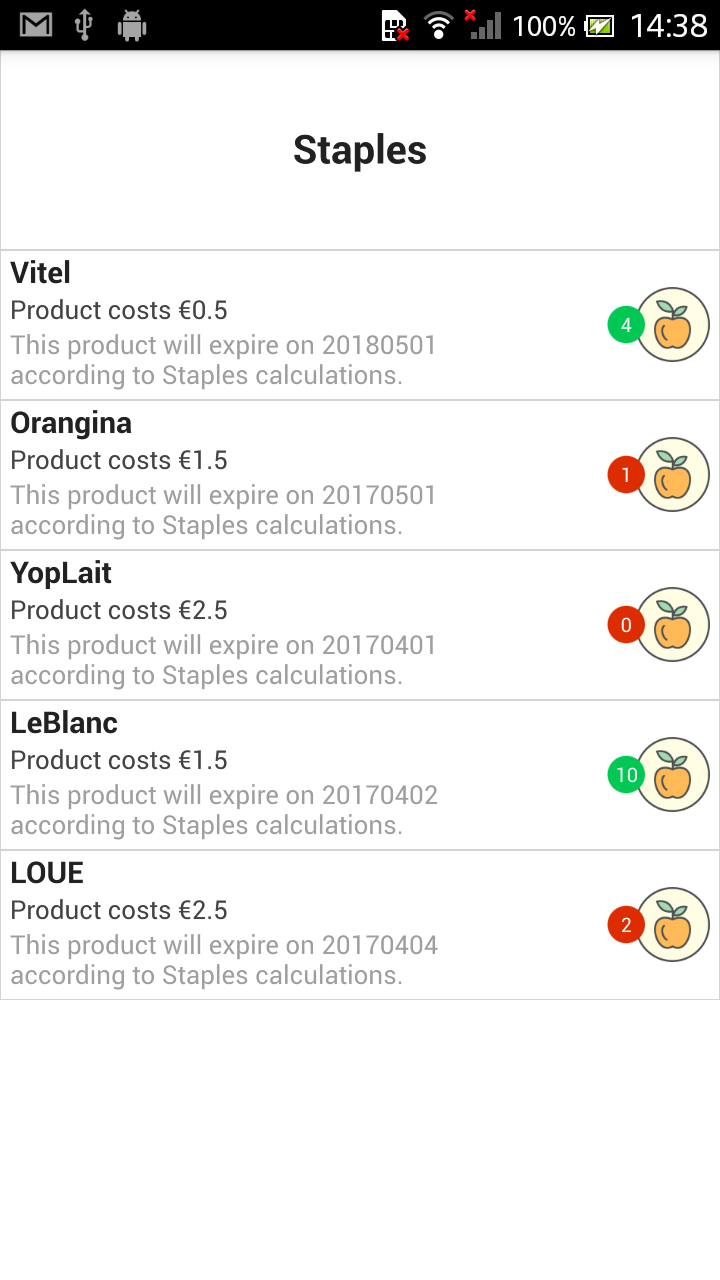
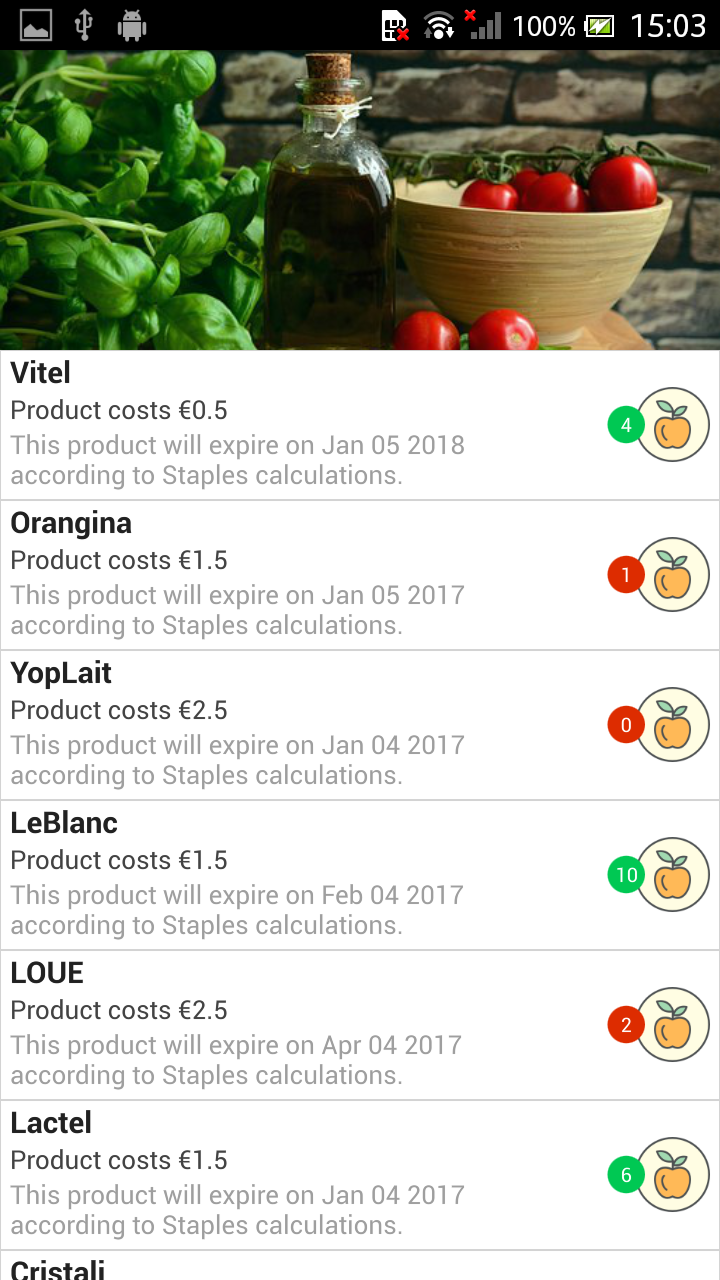
Improved design

diff --git a/qml/main.qml b/qml/main.qml
@@ -2,6 +2,7 @@ import QtQuick.Controls 2.0
 import QtQuick.Layouts 1.0
 import QtQuick 2.7
 import QtQuick.Window 2.0
+import QtQuick.Controls.Material 2.0
 
 ApplicationWindow {
     id: window
@@ -13,20 +14,30 @@ ApplicationWindow {
     Rectangle {
         id : header
         width: parent.width
-        height: 200
-        border.width: 1
-        border.color: "lightgrey"
+        height: 300
+        // border.width: 1
+        // border.color: "lightgrey"
+        Material.elevation: 2
 
+        Image {
+            id: staplesImage
+            source: "qrc:/olive-oil.jpg"
+            anchors.fill: parent
+            fillMode: Image.PreserveAspectCrop
+        }
+
+        /*
         Text {
             horizontalAlignment: Text.AlignHCenter
             verticalAlignment: Text.AlignVCenter
             anchors.fill: parent
             text: "Staples"
             font.bold: true
-            font.pointSize: 20
+            font.pointSize: 25
             elide: Text.ElideMiddle
             color: "#212121"
         }
+        */
     }
 
     Rectangle {

diff --git a/src/StaplesModel.cpp b/src/StaplesModel.cpp
@@ -13,7 +13,7 @@ StaplesModel* StaplesModel::getInstance()
     return _pInstance;
 }
 
-void StaplesModel::addStaple(unsigned int expirationDate, std::string name, float price, unsigned int quantity)
+void StaplesModel::addStaple(std::string expirationDate, std::string name, float price, unsigned int quantity)
 {
     beginInsertRows(QModelIndex(), rowCount(), rowCount());
     _staplesContainer.push_back(Staple(expirationDate, name, price, quantity));
@@ -62,7 +62,7 @@ QVariant StaplesModel::data(const QModelIndex &index, int role) const
     }
 
     if (role == NameRole)           { return QString::fromStdString(staple.name()); }
-    if (role == ExpirationDateRole) { return staple.numberOfDaysBeforeExpiration(); }
+    if (role == ExpirationDateRole) { return QString::fromStdString(staple.numberOfDaysBeforeExpiration()); }
     if (role == PriceRole)          { return staple.price(); }
     if (role == QuantityRole)       { return staple.quantity(); }
 

diff --git a/inc/Staple.h b/inc/Staple.h
@@ -19,16 +19,16 @@ class Staple
 public:
             Staple();
    virtual ~Staple();
-            Staple(unsigned int _daysBeforeExpiration, std::string _stapleName, float _staplePrice, unsigned int _stapleQuantity);
+            Staple(std::string _daysBeforeExpiration, std::string _stapleName, float _staplePrice, unsigned int _stapleQuantity);
 
-   unsigned int numberOfDaysBeforeExpiration() const;
+   std::string  numberOfDaysBeforeExpiration() const;
    std::string  name() const;
    float        price() const;
    unsigned int quantity() const;
 
 /// protected members
 protected:
-   unsigned int _daysBeforeExpiration;
+   std::string  _daysBeforeExpiration;
    std::string  _stapleName;
    float        _staplePrice;
    unsigned int _stapleQuantity;

diff --git a/src/Staple.cpp b/src/Staple.cpp
@@ -2,14 +2,14 @@
 #include "Staple.h"
 
 Staple::Staple()
-   : _daysBeforeExpiration(0)
+   : _daysBeforeExpiration("")
    , _stapleName("")
    , _staplePrice(0.0)
    , _stapleQuantity(0)
 {
 }
 
-Staple::Staple(unsigned int _daysBeforeExpiration, std::string _stapleName, float _staplePrice, unsigned int _stapleQuantity)
+Staple::Staple(std::string _daysBeforeExpiration, std::string _stapleName, float _staplePrice, unsigned int _stapleQuantity)
     : _daysBeforeExpiration(_daysBeforeExpiration)
     , _stapleName(_stapleName)
     , _staplePrice(_staplePrice)
@@ -21,7 +21,7 @@ Staple::~Staple()
 {
 }
 
-unsigned int Staple::numberOfDaysBeforeExpiration() const
+std::string Staple::numberOfDaysBeforeExpiration() const
 {
    return _daysBeforeExpiration;
 }

diff --git a/src/StaplesManager.cpp b/src/StaplesManager.cpp
@@ -44,7 +44,7 @@ int StaplesManager::retrieveStaples(const QJsonDocument& doc)
         {
             QString ss = QString("s%1").arg(ii);
 
-            _model->addStaple((staples[ss].toMap())["exp"].toInt(),
+            _model->addStaple((staples[ss].toMap())["exp"].toString().toStdString(),
                               (staples[ss].toMap())["name"].toString().toStdString(),
                               (staples[ss].toMap())["price"].toFloat(),
                               (staples[ss].toMap())["qty"].toInt());

diff --git a/inc/StaplesModel.h b/inc/StaplesModel.h
@@ -19,7 +19,7 @@ class StaplesModel : public QAbstractListModel
    Q_OBJECT
 
 public slots:
-   void addStaple(unsigned int expirationDate,
+   void addStaple(std::string  expirationDate,
                   std::string  name,
                   float        price,
                   unsigned int quantity);

diff --git a/src/StaplesApplication.cpp b/src/StaplesApplication.cpp
@@ -46,7 +46,7 @@ int StaplesApplication::init()
     }
 
     // fake request
-    retrieveListOfStaples(QUrl("http://192.168.0.21:1500"));
+    retrieveListOfStaples(QUrl("http://192.168.0.21/cgi-bin/example.cgi?val_x=Jun%2025%202018&val_y=Morora&val_z=5.97&val_t=1"));
 
     return status;
 }
